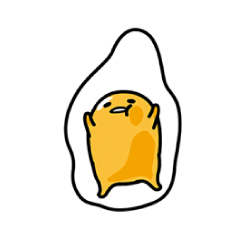
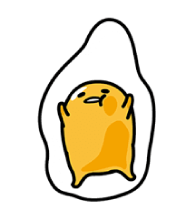
imagenes ajustadas

Changed region(s): [[0.1875, 0.0548, 0.8125, 0.9315]]

diff --git a/main.js b/main.js
@@ -4,12 +4,11 @@ var ctx = canvas.getContext('2d'); //genera una variable contexto que sirve como
 //constants
 var interval; 
 var frames = 0; //la variable frames empieza en cero.
-var score;
+var score = 0;
 var gudeTamas = []; //array de nuevos gudetamas. Empieza vacío.
 
 var images = {
-    ichigoRun1: '../IchigoGame/images/running1.png',
-    ichigoRun2: '../IchigoGame/images/running2.png',
+    ichigoRun1: '../IchigoGame/images/running2.png',
     ichigoFall: '../IchigoGame/images/fall.png',
     ichigoJump: '../IchigoGame/images/jumping.png',
     ichigoPunched: '../IchigoGame/images/punched.png',
@@ -23,7 +22,6 @@ var images = {
 }
 
 var gudetamaFalling = ['../IchigoGame/images/falling1.png','../IchigoGame/images/falling2.png','../IchigoGame/images/falling3.png'];
-var randomGudetama = '';
 
 var gudetamaIntoTheFloor = ['../IchigoGame/images/floor1.png','../IchigoGame/images/floor2.png','../IchigoGame/images/floor3.png','../IchigoGame/images/floor4.png','../IchigoGame/images/floor5.png'];
 var gudetamaPushed = ['../IchigoGame/images/pushed1.png','../IchigoGame/images/pushed2.png'];
@@ -71,7 +69,7 @@ class Board { //Es el background del canvas
         ctx.drawImage(this.image, this.x + this.width, this.y, this.width, this.height); /* */
         ctx.fillStyle = "white"; //Esto pinta el siguiente elemento marcador
         ctx.font = '50px Avenir'; //Esto define el tamaño y la letra del marcador
-        ctx.fillText(Math.floor(frames / 60), this.width - 100, 50); //es un texto que cambia con los frames. /* */ No sé que significa en su totalidad.
+        //ctx.fillText(Math.floor(frames / 60), this.width - 100, 50); //es un texto que cambia con los frames. /* */ No sé que significa en su totalidad.
     }
     gameOverScreen() { //es la función que termina el juego
         this.x = 0;
@@ -84,9 +82,9 @@ class IchigoMan {
     constructor() {
         this.x = 60; //posición x del elemento en el canvas
         this.y = 200; //posición y del elemento en el canvas
-        this.width = 220; //ancho del elemento
+        this.width = 190; //ancho del elemento
         this.height = 250; //alto del elemento
-        this.health = 3;
+        this.health = 30;
         this.image = new Image(); /**/
         this.image.src = images.ichigoRun1; //ruta de la imagen que está en el objeto images
         this.image.onload = function () { //cuando se cargue la imagen:
@@ -109,13 +107,11 @@ class IchigoMan {
 
     jump() { //arreglar el salto /* */
         this.image.src = images.ichigoJump;
-        console.log(this.y);
         if (this.y <= 40) return;
         this.y -= 50;
     }
     moveDown() {
         this.image.src = images.ichigoDown;
-        console.log(this.y);
         if (this.y > 255) return;
         this.y += 50; //disminuye y, mueve abajo
     }
@@ -144,7 +140,7 @@ class Gudetama {
     constructor(x = canvas.width/2) { //recibe el valor de x, porque se genera random en otra función, si no encuentra a x, le asigna a x el valor de la mitad del canvas.
         this.x = x; //X recibe una X del exterior
         this.y = 0; //la posición Y vale 0
-        this.width = 100; // ancho del gudetama
+        this.width = 90; // ancho del gudetama
         this.height = 100; // alto del gudetama
         this.image = new Image(); /* */
         this.image.src = randomGudetamaFalling; //recibe una imagen random de gudetama /* */
@@ -162,7 +158,9 @@ class Gudetama {
     }
     checkFloor(){
         if(this.dontChange) return; //Esto falso la primera vez que entra el loop, a partir de la siguiente, se vuelve verdadero.
-        if(this.y > canvas.height - 100) { //Si Y es mayor que lo que mide el canvas de alto, menos 100, ejecuta:
+        if(this.y > canvas.height - 90) { //Si Y es mayor que lo que mide el canvas de alto, menos 100, ejecuta:
+            this.width = 100; // ancho del gudetama
+            this.height = 70; // alto del gudetama
             this.image.src = gudetamaIntoTheFloor[this.randomNumber]; //cambia la imágen de la clase por una random
             this.dontChange = true; //hace que la variable se vuelva true y no permite que vuelva a cambiar a falso.
         }
@@ -170,7 +168,7 @@ class Gudetama {
     }
 
     draw() {
-        if(this.y < canvas.height-100){
+        if(this.y < canvas.height-90){
             this.y += this.gravity; //suma el valor de la variable gravedad a y, de esta manera y incrementa cada vez que se dibuja.
             this.x--; //resta 1 al valor de x, de esta manera, el objeto se dibuja cada vez más hacia la izquierda
             ctx.drawImage(this.image, this.x, this.y, this.width, this.height); //dibuja la imagen
@@ -215,7 +213,6 @@ function update() {
     board.draw(); //ejecuta la función draw, de la variable board, la cual contiene todo lo que está en la clase Board
     ichigo1.draw(); //ejecuta la función draw, de la variable ichigo1, la cual contiene todo lo que está en la clase IchigoMan
     //go.draw();
-    console.log(frames);
     imgGudetamaFalling();
     generateGudetamaFalling(); //ejecuta la función generar gudetamas cayendo
     drawGudetamas(); //ejecuta la función dibujar gudetamas que caen
@@ -224,6 +221,7 @@ function update() {
     
     })
 }
+
 function inicio(){
     //falta el sonido de inicio.
     board.iniciobg();
